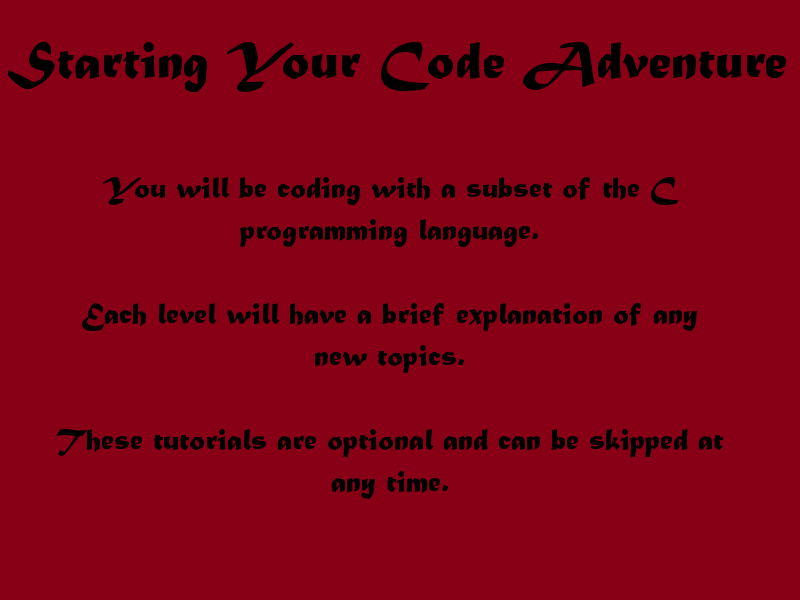
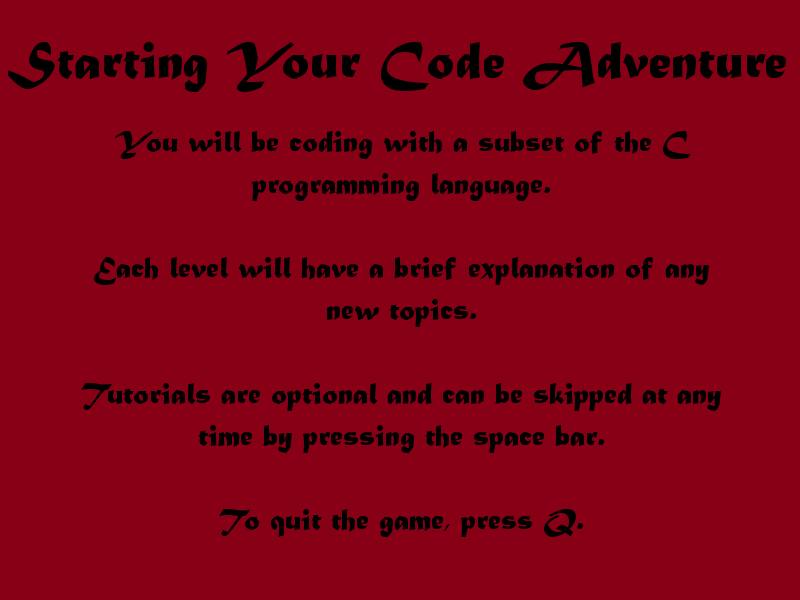
IM SORRY MY LAST COMMIT DIDNT ACTUALLY PROPERLY ADD THE FILES REFERENCED.  TRUE COMMIT HERE: added tutorial dictionary to contain tutorial pngs for each level (each level will have multiple tutorial pages), added tutorials before level 1, added functionality for tutorials before each master level, a

diff --git a/src/main.py b/src/main.py
@@ -126,6 +126,38 @@ class WelcomeScreen(PlainMenu):
   def userSelect(self):
     self._ui.pushState(LevelMenu(self._ui))
 
+class TutorialScreen(PlainMenu):
+  """The tutorial screen - splash"""
+
+  def __init__(self, ui, csvfile, tutorialfiles):
+    super(TutorialScreen, self).__init__(ui, tutorialfiles) # contains series of imagefiles
+    #self.lastpage = lastpage # is it the last page of the tutorial?
+    self.csvfile = csvfile
+    self.tutorialfiles = tutorialfiles
+
+  def handleEvents(self, events):
+    """Handle keyboard input for skipping through tutorial. Returns True if the game should quit."""
+    for e in events:
+        if e.type == pygame.QUIT:
+          return True
+        elif e.type == pygame.KEYDOWN:
+          #if e.key == pygame.K_UP:
+          #  self.userUp()
+          #elif e.key == pygame.K_DOWN:
+          #  self.userDown()
+          if e.key == pygame.K_ESCAPE:
+            self.userBack()
+          elif e.key == pygame.K_SPACE:
+            self.userSkip()
+          elif e.key == pygame.K_q:
+            return True
+    return False
+
+  def userSkip(self):
+    """ Move on to level """
+    #self._ui.pushState(TutorialScreen(self._ui, lastpage, imgfile))
+    self._ui.pushState(LevelScreen(self._ui, self.csvfile)) # push the state for that level splash screen
+
 class LevelButton(object):
   """Faux button that indicates available level choices"""
   def __init__(self, ui, imgfile):
@@ -144,7 +176,9 @@ class LevelMenu(PlainMenu):
     """Handle keyboard input for level selection. Returns True if the game should quit."""
     MasterLevelDictonary = [ ["level100.csv", "level101.csv", "level102.csv", "level103.csv", "level104.csv"], 
                              ["level200.csv", "level201.csv", "level202.csv", "level203.csv", "level204.csv"],
-                             ["level300.csv", "level301.csv", "level302.csv", "level303.csv", "level304.csv"] ] 
+                             ["level300.csv", "level301.csv", "level302.csv", "level303.csv", "level304.csv"] ]
+    MasterTutorialDictionary = [ ["../assets/intro_screen.png", "../assets/masterLevel1tutorial.png"] ]
+
     for e in events:
       if e.type == pygame.QUIT:
         return True
@@ -158,7 +192,7 @@ class LevelMenu(PlainMenu):
         elif e.key == pygame.K_ESCAPE:
           self.userBack()
         elif e.key == pygame.K_1:
-          self.userSelectLevel(MasterLevelDictonary[0][0])
+          self.userSelectLevel(MasterLevelDictonary[0][0], MasterTutorialDictionary[0][0])
         elif e.key == pygame.K_2:
           self.userSelectLevel(MasterLevelDictonary[1][0])
         elif e.key == pygame.K_3:
@@ -167,8 +201,10 @@ class LevelMenu(PlainMenu):
           return True
     return False
 
-  def userSelectLevel(self, csvfile):
-    self._ui.pushState(LevelScreen(self._ui, csvfile)) # push the state for that level splash screen
+  def userSelectLevel(self, csvfile, tutorialfiles):
+    self._ui.pushState(TutorialScreen(self._ui, csvfile, tutorialfiles))
+    #self._ui.pushState(LevelScreen(self._ui, csvfile)) # push the state for that level splash screen
+    # TutorialScreen will push the level state intstead..
 
 class LevelScreen(PlainMenu):
   """The level screen - splash"""
